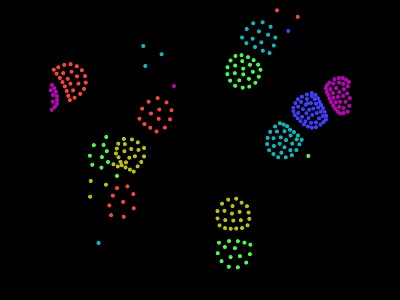
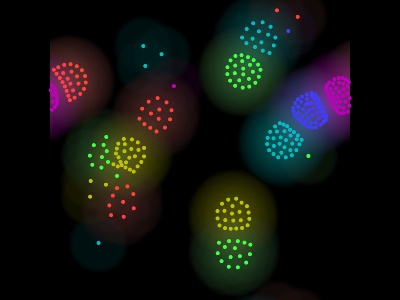
DeferredShading, texture arrays

diff --git a/swissgl.js b/swissgl.js
@@ -15,8 +15,8 @@
 
 // Repeat/Loop?
 // fbo:
-// - multiple render targets (arrays)
-// - depth/stencil
+// - multiple named render targets (Out...?)
+// - stencil?
 // - mipmaps?
 // samplers/filter?
 // data texture subimage?
@@ -142,6 +142,7 @@ function compileProgram(gl, vs, fs) {
 const glsl_template = `
 precision highp float;
 precision highp int;
+precision lowp sampler2DArray;
 #ifdef VERT
     #define varying out
     #define VOut gl_Position
@@ -152,6 +153,13 @@ precision highp int;
 #else
     #define varying in
     layout(location = 0) out vec4 FOut;
+    layout(location = 1) out vec4 FOut1;
+    layout(location = 2) out vec4 FOut2;
+    layout(location = 3) out vec4 FOut3;
+    layout(location = 4) out vec4 FOut4;
+    layout(location = 5) out vec4 FOut5;
+    layout(location = 6) out vec4 FOut6;
+    layout(location = 7) out vec4 FOut7;
     ivec2 I;
 #endif
 
@@ -221,6 +229,8 @@ vec3 _surf_f(vec3 p, vec3 a, vec3 b, out vec3 normal) {
 
 vec4 _sample(sampler2D tex, vec2 uv) {return texture(tex, uv);}
 vec4 _sample(sampler2D tex, ivec2 xy) {return texelFetch(tex, xy, 0);}
+vec4 _sample(sampler2DArray tex, vec3 uv) {return texture(tex, uv);}
+vec4 _sample(sampler2DArray tex, ivec3 xy) {return texelFetch(tex, xy, 0);}
 
 #ifdef FRAG
     float isoline(float v) {
@@ -243,10 +253,11 @@ function guessUniforms(params) {
         const v = params[name];
         let s = null;
         if (v instanceof WebGLTexture) {
-            s = `uniform sampler2D ${name};
+            const [type, D] = v.layern?['sampler2DArray', '3']:['sampler2D', '2'];
+            s = `uniform ${type} ${name};
             #define ${name}(p) (_sample(${name}, (p)))
-            ivec2 ${name}_size() {return textureSize(${name}, 0);}
-            vec2  ${name}_step() {return 1.0/vec2(${name}_size());}`;
+            ivec${D} ${name}_size() {return textureSize(${name}, 0);}
+            vec${D}  ${name}_step() {return 1.0/vec${D}(${name}_size());}`;
         } else if (typeof v === 'number') {
             s=`uniform float ${name};`
         } else  if (v.length in len2type) {
@@ -313,7 +324,15 @@ function linkShader(gl, uniforms, Inc, VP, FP) {
     }`);
 }
 
-function createTex2D(gl, {size, format='rgba8', filter='linear', wrap='repeat', data=null}) {
+function createTex2D(gl, params) {
+    let {size, format='rgba8', filter='linear', wrap='repeat', layern=null, data=null, depth=null} = params;
+    if (format.includes('+')) {
+        const [mainFormat, depthFormat] = format.split('+');
+        const tex = createTex2D(gl, {...params, format:mainFormat});
+        tex.depth = createTex2D(gl, {...params, format:depthFormat, layern:null, depth:null});
+        return tex;
+    }
+    const gltarget = layern ? gl.TEXTURE_2D_ARRAY : gl.TEXTURE_2D;
     const [internalFormat, glformat, type] = {
         'r8': [gl.R8, gl.RED, gl.UNSIGNED_BYTE],
         'rgba8': [gl.RGBA8, gl.RGBA, gl.UNSIGNED_BYTE],
@@ -332,30 +351,39 @@ function createTex2D(gl, {size, format='rgba8', filter='linear', wrap='repeat', 
                     'mirror': gl.MIRRORED_REPEAT}[wrap];
     const tex = gl.createTexture();
     tex.format = format;
+    tex.layern = layern;
+    tex.gltarget = gltarget;
+    if (depth) {tex.depth = depth;}
     tex.update = (size, data)=> {
         const [w, h] = size;
-        gl.bindTexture(gl.TEXTURE_2D, tex);
-        gl.texImage2D(gl.TEXTURE_2D, 0/*mip level*/,
-            internalFormat, w, h, 0/*border*/,
-            glformat, type, data/*data*/);
-        gl.bindTexture(gl.TEXTURE_2D, null);
+        gl.bindTexture(gltarget, tex);
+        if (!layern) {
+            gl.texImage2D(gltarget, 0/*mip level*/,
+                internalFormat, w, h, 0/*border*/,
+                glformat, type, data/*data*/);
+        } else {
+            gl.texImage3D(gltarget, 0/*mip level*/,
+                internalFormat, w, h, layern, 0/*border*/,
+                glformat, type, data/*data*/);
+        }
+        gl.bindTexture(gltarget, null);
         tex.size = size;
+        if (tex.depth) {tex.depth.update(size, data);}
     }
     tex.update(size, data);
 
-    gl.bindTexture(gl.TEXTURE_2D, tex);
-    // TODO: gl.generateMipmap(gl.TEXTURE_2D); ?
-    gl.texParameteri(gl.TEXTURE_2D, gl.TEXTURE_MIN_FILTER, glfilter);
-    gl.texParameteri(gl.TEXTURE_2D, gl.TEXTURE_MAG_FILTER, glfilter);
-    gl.texParameteri(gl.TEXTURE_2D, gl.TEXTURE_WRAP_S, glwrap);
-    gl.texParameteri(gl.TEXTURE_2D, gl.TEXTURE_WRAP_T, glwrap);
-    gl.bindTexture(gl.TEXTURE_2D, null);
+    gl.bindTexture(gltarget, tex);
+    // TODO: gl.generateMipmap(gltarget); ?
+    gl.texParameteri(gltarget, gl.TEXTURE_MIN_FILTER, glfilter);
+    gl.texParameteri(gltarget, gl.TEXTURE_MAG_FILTER, glfilter);
+    gl.texParameteri(gltarget, gl.TEXTURE_WRAP_S, glwrap);
+    gl.texParameteri(gltarget, gl.TEXTURE_WRAP_T, glwrap);
+    gl.bindTexture(gltarget, null);
     return tex;
 }
 
 function createTex(gl, params) {
     const story = params.story || 1;
-    // TODO array
     const textures = [];
     for (let i=0; i<story; ++i){
         textures.push(createTex2D(gl, params));
@@ -445,14 +473,29 @@ function prepareOwnTarget(self, spec) {
     return buffers[spec.tag];
 }
 
+function attachTex(gl, tex) {
+    if (!tex.layern) {
+        const attachment = tex.format == 'depth' ? gl.DEPTH_ATTACHMENT : gl.COLOR_ATTACHMENT0;
+        gl.framebufferTexture2D(
+            gl.FRAMEBUFFER, attachment, gl.TEXTURE_2D, tex, 0/*level*/);
+    } else {
+        const drawBuffers = [];
+        for (let i=0; i<tex.layern; ++i) {
+            const attachment = gl.COLOR_ATTACHMENT0+i;
+            drawBuffers.push(attachment);
+            gl.framebufferTextureLayer(
+                gl.FRAMEBUFFER, attachment, tex, 0/*level*/, i);
+        }
+        gl.drawBuffers(drawBuffers);
+    }
+}
+
 function bindTarget(gl, tex) {
     if (tex && (tex.fbo===undefined)) {
         tex.fbo = gl.createFramebuffer();
         gl.bindFramebuffer(gl.FRAMEBUFFER, tex.fbo);
-        // TODO: array, depth
-        const attachment = tex.format == 'depth' ? gl.DEPTH_ATTACHMENT : gl.COLOR_ATTACHMENT0;
-        gl.framebufferTexture2D(
-            gl.FRAMEBUFFER, attachment, gl.TEXTURE_2D, tex, 0/*level*/);
+        attachTex(gl, tex);
+        if (tex.depth) attachTex(gl, tex.depth);
     } else {
         const fbo = tex ? tex.fbo : null;
         gl.bindFramebuffer(gl.FRAMEBUFFER, fbo);
@@ -564,7 +607,7 @@ function drawQuads(self, params, target) {
     for (let i=0; i<prog.samplers.length; ++i) {
         const tex = uniforms[prog.samplers[i].name];
         gl.activeTexture(gl.TEXTURE0+i);
-        gl.bindTexture(gl.TEXTURE_2D, tex);  //TODO: array
+        gl.bindTexture(tex?tex.gltarget:gl.TEXTURE_2D, tex);
         //gl.bindSampler(i, null); //TODO: sampler
     }
     

diff --git a/demo/DeferredShading.js b/demo/DeferredShading.js
@@ -1,0 +1,63 @@
+/** @license 
+  * Copyright 2023 Google LLC.
+  * SPDX-License-Identifier: Apache-2.0 
+  */
+
+class DeferredShading {
+    static Tags = ['3d'];
+    
+    frame(glsl, params) {
+        // draw objects
+        const gbuf = glsl({...params, Mesh:[64,128], Grid:[5,5,3],
+              Aspect:'fit', DepthTest:1, Clear:0, Inc:`
+        varying vec3 normal, wldPos;`, VP:`
+        vec3 surface_f(vec2 p) {
+            vec2 c = sin(time+p*vec2(ID)*TAU);
+            vec3 pos = torus(p, 1.0, 0.4 + 0.1*c.x + 0.15*c.y)/8.0;
+            pos.xz *= rot2(float(ID.x+ID.y+ID.z));
+            pos.xyz += (vec3(ID)-vec3(Grid-1)*0.5)*0.4;
+            return pos;
+        }
+        void vertex() {
+            wldPos = SURF(surface_f, UV, normal, 1e-3);
+            VOut = wld2proj(wldPos);
+        }`, FP:`
+            FOut = vec4(0.7, 0.7, 0.7, 1.0);
+            vec2 m = UV*vec2(Mesh)/4.0;
+            FOut.rgb += (isoline(m.x)+isoline(m.y))*0.2; // color
+            FOut1.xyz = normalize(normal);               // normal
+            FOut2.xyz = wldPos;                          // wldPos
+        `}, {format:'rgba16f+depth', tag:'gbuf', layern:3});
+
+        // common lights passes code
+        const lightArgs = {...params, Face:'front', Grid:[9, 9, 7],
+            Aspect:'fit', Blend:'s+d', DepthTest:'keep', Inc:`
+            varying vec3 lightPos, lightColor;`, VP:`
+            void vertex() {
+                lightPos = vec3(ID-Grid/2)*0.2;
+                lightPos.xy *= rot2(time*0.1+lightPos.z);
+                lightColor = hash(ID+1)*5.0;
+                VOut = wld2proj(lightPos+uv2sphere(UV)*lightR);
+            }`};
+
+        // accumulate surface lights
+        const light = glsl({...lightArgs, lightR:0.3, 
+            Mesh:[32,64], Clear:0, gbuf, FP:`
+        vec4 color  = gbuf(ivec3(I,0));
+        vec3 normal = gbuf(ivec3(I,1)).xyz;
+        vec3 wldPos = gbuf(ivec3(I,2)).xyz;
+        vec3 lightDir = lightPos-wldPos;
+        float r = length(lightDir)+1e-10;
+        float diff = max(dot(normal, lightDir/r), 0.0);
+        float att = color.a/(1.0+r*r*2e4);
+        FOut = vec4(color.rgb*lightColor*att*diff, 1.0);
+        `
+        }, {format:'rgba16f', tag:'light', depth:gbuf.depth});
+        
+        // add light source points
+        glsl({...lightArgs, lightR:0.005, Mesh:[16,8], FP:`lightColor*0.3,1`}, light);
+
+        // render to screen
+        glsl({light, FP:`sqrt(light(UV))`})
+    }
+}

diff --git a/index.html b/index.html
@@ -95,6 +95,7 @@ a {
 <script src='demo/Shadowmap.js'></script>
 <script src='demo/ParticleLife3d.js'></script>
 <script src='demo/Torus4d.js'></script>
+<script src='demo/DeferredShading.js'></script>
 <script src='demo/main.js'></script>
 
 <details id="panel" open>
@@ -116,7 +117,7 @@ a {
     const app = new DemoApp([
         NeuralCA, BitField, MeshGrid, GameOfLife, ParticleLife, ParticleLife3d, 
         ParticleLenia, FancyLenia, Spectrogram, Physarum, SurfaceNormals, CubeDeform,
-        ColorCube, Shadowmap, Torus4d,
+        ColorCube, Shadowmap, Torus4d, DeferredShading,
     ]);
     function fullscreen() {
         app.fullscreen();

diff --git a/demo/main.js b/demo/main.js
@@ -67,6 +67,9 @@ class DemoApp {
             vec4 wld2proj(vec4 p) {
                 return view2proj(wld2view(p));
             }
+            vec4 wld2proj(vec3 p) {
+                return wld2proj(vec4(p,1.0));
+            }
         `;
         this.withCamera = this.glsl.hook((glsl, params, target)=>{
             params = {...params, Inc:this.glsl_include+(params.Inc||'')};

diff --git a/docs/API.md b/docs/API.md
@@ -72,7 +72,11 @@ The following options control the creation of new textures:
 
 * `scale`: scalar. Coefficient applied to `size` before creating the texture. For example the following specification `{scale:1/4}` will create a target that is four times smaller than the canvas frame buffer in each dimension, and is automatically resized on canvas size changes.
 
-* `format`: string, `rgba8`, `r8`, `rgba16f`, `r16f`, `rgba32f`, `r32f` and `depth` are currently supported.
+* `format`: string, `rgba8`, `r8`, `rgba16f`, `r16f`, `rgba32f`, `r32f` and `depth` are currently supported. Adding `+depth` suffix (e.g. `rgba16f+depth`) creates an additional depth texture stored in `.depth` attribute of the created target.
+
+* `depth`: Texture target. Allows to attach a previously created depth buffer for the new target.
+
+* `layern`: integer. Creates a Texture2DArray with the given number of layers.
 
 * `data`: `TypedArray` of size and type matching the texture specification. Allows to set the texture content from JS and update it after the texture creation to stream the new data to GPU. See [Spectrogram demo](../demo/Spectrogram.js) for the example.
 

diff --git a/docs/CHANGELOG.md b/docs/CHANGELOG.md
@@ -1,5 +1,11 @@
 # Changelog
 
+### 2023-04-28
+* Depth attachments (`depth` texture format and target parameter)
+* Texture arrays (`layern` target parameter)
+* [DeferredShading](https://google.github.io/swissgl/#DeferredShading) example
+
+
 ### 2023-03-19
 * **(breaking)** removed `code` argument. Shader is passed through `VP`, `FP` and `Inc` parameters. Shortcut syntax can be used in `VP` and `FP` independently.
 * **(breaking)** `vertex()` function now returns `void`,  output should be written into `vec4 VOut` variable. `fragment()` output now should be stored in `vec4 FOut`.
